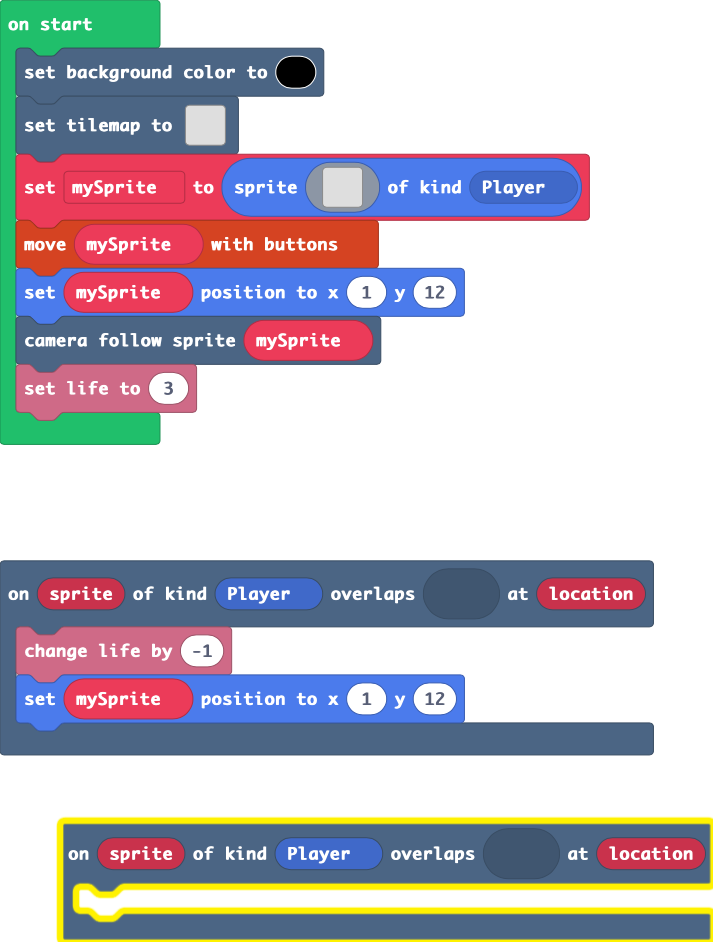
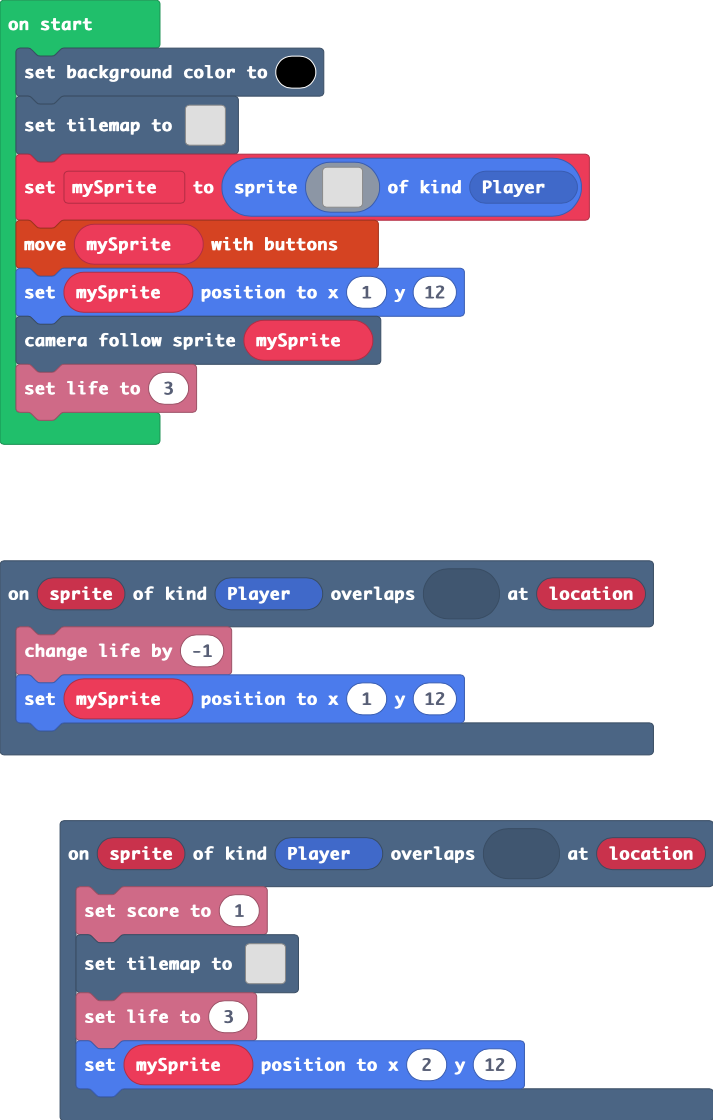
added scores and second level

diff --git a/main.ts b/main.ts
@@ -3,11 +3,31 @@ scene.onOverlapTile(SpriteKind.Player, sprites.dungeon.hazardLava1, function (sp
     mySprite.setPosition(1, 12)
 })
 scene.onOverlapTile(SpriteKind.Player, sprites.castle.saplingOak, function (sprite, location) {
-	
+    info.setScore(1)
+    tiles.setTilemap(tiles.createTilemap(hex`1000100001010101010101010101010101010101010000000000000001000000000202010101010101000100000001000101010101010000000000000100000000000001010200010100010101010101010100010102000100000000000000000100000101020001010102020201010001000101010200000001020202000000000000010102000100010202020001010101010101020001000100000000000000000101010000010000000101010102020000010100000102020202020202010101000101000201020101010101010100000001010002010100000000000001000202010100000000000002020200010000030101010101010101010101010101010101`, img`
+        2 2 2 2 2 2 2 2 2 2 2 2 2 2 2 2 
+        2 . . . . . . . 2 . . . . . . 2 
+        2 2 2 2 2 . 2 . . . 2 . 2 2 2 2 
+        2 2 . . . . . . 2 . . . . . . 2 
+        2 . . 2 2 . 2 2 2 2 2 2 2 2 . 2 
+        2 . . 2 . . . . . . . . 2 . . 2 
+        2 . . 2 2 2 . . . 2 2 . 2 . 2 2 
+        2 . . . . 2 . . . . . . . . . 2 
+        2 . . 2 . 2 . . . . 2 2 2 2 2 2 
+        2 . . 2 . 2 . . . . . . . . 2 2 
+        2 . . 2 . . . 2 2 2 2 . . . . 2 
+        2 . . 2 . . . . . . . 2 2 2 . 2 
+        2 . . 2 . 2 2 2 2 2 2 2 . . . 2 
+        2 . . 2 2 . . . . . . 2 . . . 2 
+        2 . . . . . . . . . . 2 . . . 2 
+        2 2 2 2 2 2 2 2 2 2 2 2 2 2 2 2 
+        `, [myTiles.transparency16,sprites.dungeon.hazardWater,sprites.dungeon.hazardLava1,sprites.castle.saplingOak], TileScale.Sixteen))
+    info.setLife(3)
+    mySprite.setPosition(2, 12)
 })
 let mySprite: Sprite = null
 scene.setBackgroundColor(15)
-tiles.setTilemap(tiles.createTilemap(hex`1000100000000000000000000000000000000000000000000000000000000000000000000202020202020202020202020000020202000000000101010000000000000101020000000000000000000202020202020200020202020102020200000000020302000001010202020202000202000200020000000002000000020000000002000202020200020002000202020002000000000000000000020000010200020001000002020202020202000202000200020200020000000000020000000002000000000200020202000202020202020200000200000202020000000000000000000000000001010201010202000000020202020202020202020202020201010101`, img`
+tiles.setTilemap(tiles.createTilemap(hex`1000100000000000000000000000000000000000000000000000000000000000000000000202020202020202020202020000020202000000000101010000000000000101020000000000000000000202020202020200020202020102020200000000020302000001010202020202000202000200020000000002000000020000000002000202020200020002000202020002000000000000000000020000010200020001000002020202020202000202000200020200020000000000020000000002000000000200020202000202020202020200000200000202020002020202000000000000000001010200000000000000020202020202020202020201010101010101`, img`
     . . . . . . . . . . . . . . . . 
     . . . . . . . . . . . . . . . . 
     2 2 2 2 2 2 2 2 2 2 2 2 . . 2 2 
@@ -21,9 +41,9 @@ tiles.setTilemap(tiles.createTilemap(hex`100010000000000000000000000000000000000
     . . 2 2 2 2 2 2 2 . 2 2 . 2 . 2 
     2 . 2 . . . . . 2 . . . . 2 . . 
     . . 2 . 2 2 2 . 2 2 2 2 2 2 2 . 
-    . 2 . . 2 2 2 . . . . . . . . . 
-    . . . . . . 2 . . 2 2 . . . 2 2 
-    2 2 2 2 2 2 2 2 2 2 2 2 . . . . 
+    . 2 . . 2 2 2 . 2 2 2 2 . . . . 
+    . . . . . . 2 . . . . . . . 2 2 
+    2 2 2 2 2 2 2 2 2 . . . . . . . 
     `, [myTiles.transparency16,sprites.dungeon.hazardLava1,sprites.dungeon.hazardWater,sprites.castle.saplingOak], TileScale.Sixteen))
 mySprite = sprites.create(img`
     ........................
